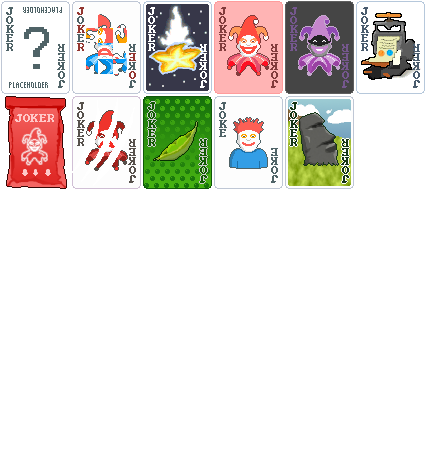
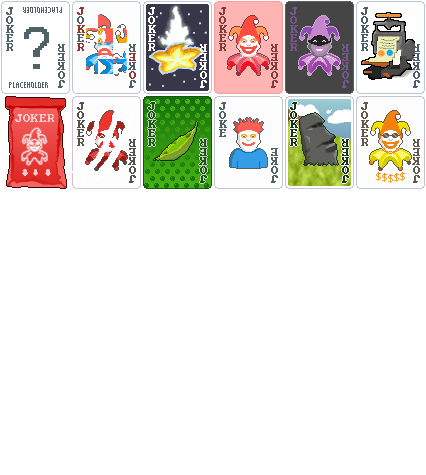
v0.2.2

Changed region(s): [[0.8239, 0.2063, 1.0, 0.3832]]

diff --git a/README.md b/README.md
@@ -18,7 +18,7 @@ Currently, <b>Emporium</b> adds the following to <b>Balatro</b>:
 </p>
 
 <details style="margin-bottom: 15px;">
-<summary><b>Jokers</b>: 23 new jokers, each with unique abilities and effects.</summary>
+<summary><b>Jokers</b>: 24 new jokers, each with unique abilities and effects.</summary>
 <ul style="margin-top: 10px;">
     <li><b>Shadow Joker</b>: +20 Mult if played hand is a Two Pair and contains only Spades and Clubs</li>
     <li><b>Crimson Joker</b>: +20 Mult if played hand is a Two Pair and contains only Diamonds and Hearts</li>
@@ -43,6 +43,7 @@ Currently, <b>Emporium</b> adds the following to <b>Balatro</b>:
     <li><b>Seal of Authenticity</b>: Retrigger all played Red Seal cards an extra 2 times</li>
     <li><b>The Fourteenth Chamber</b>: If the ranks of all cards scored sum up to 14, this Joker gives X5 Mult</li>
     <li><b>Great White</b>: If the first played hand of a round has only 1 card, destroy it and add its benefits to this Joker</li>
+    <li><b>Modulo</b>: X1 Mult for every remaining hand, and apply this to each scored card</li>
 </ul>
 </details>
 <details style="margin-bottom: 15px;">
